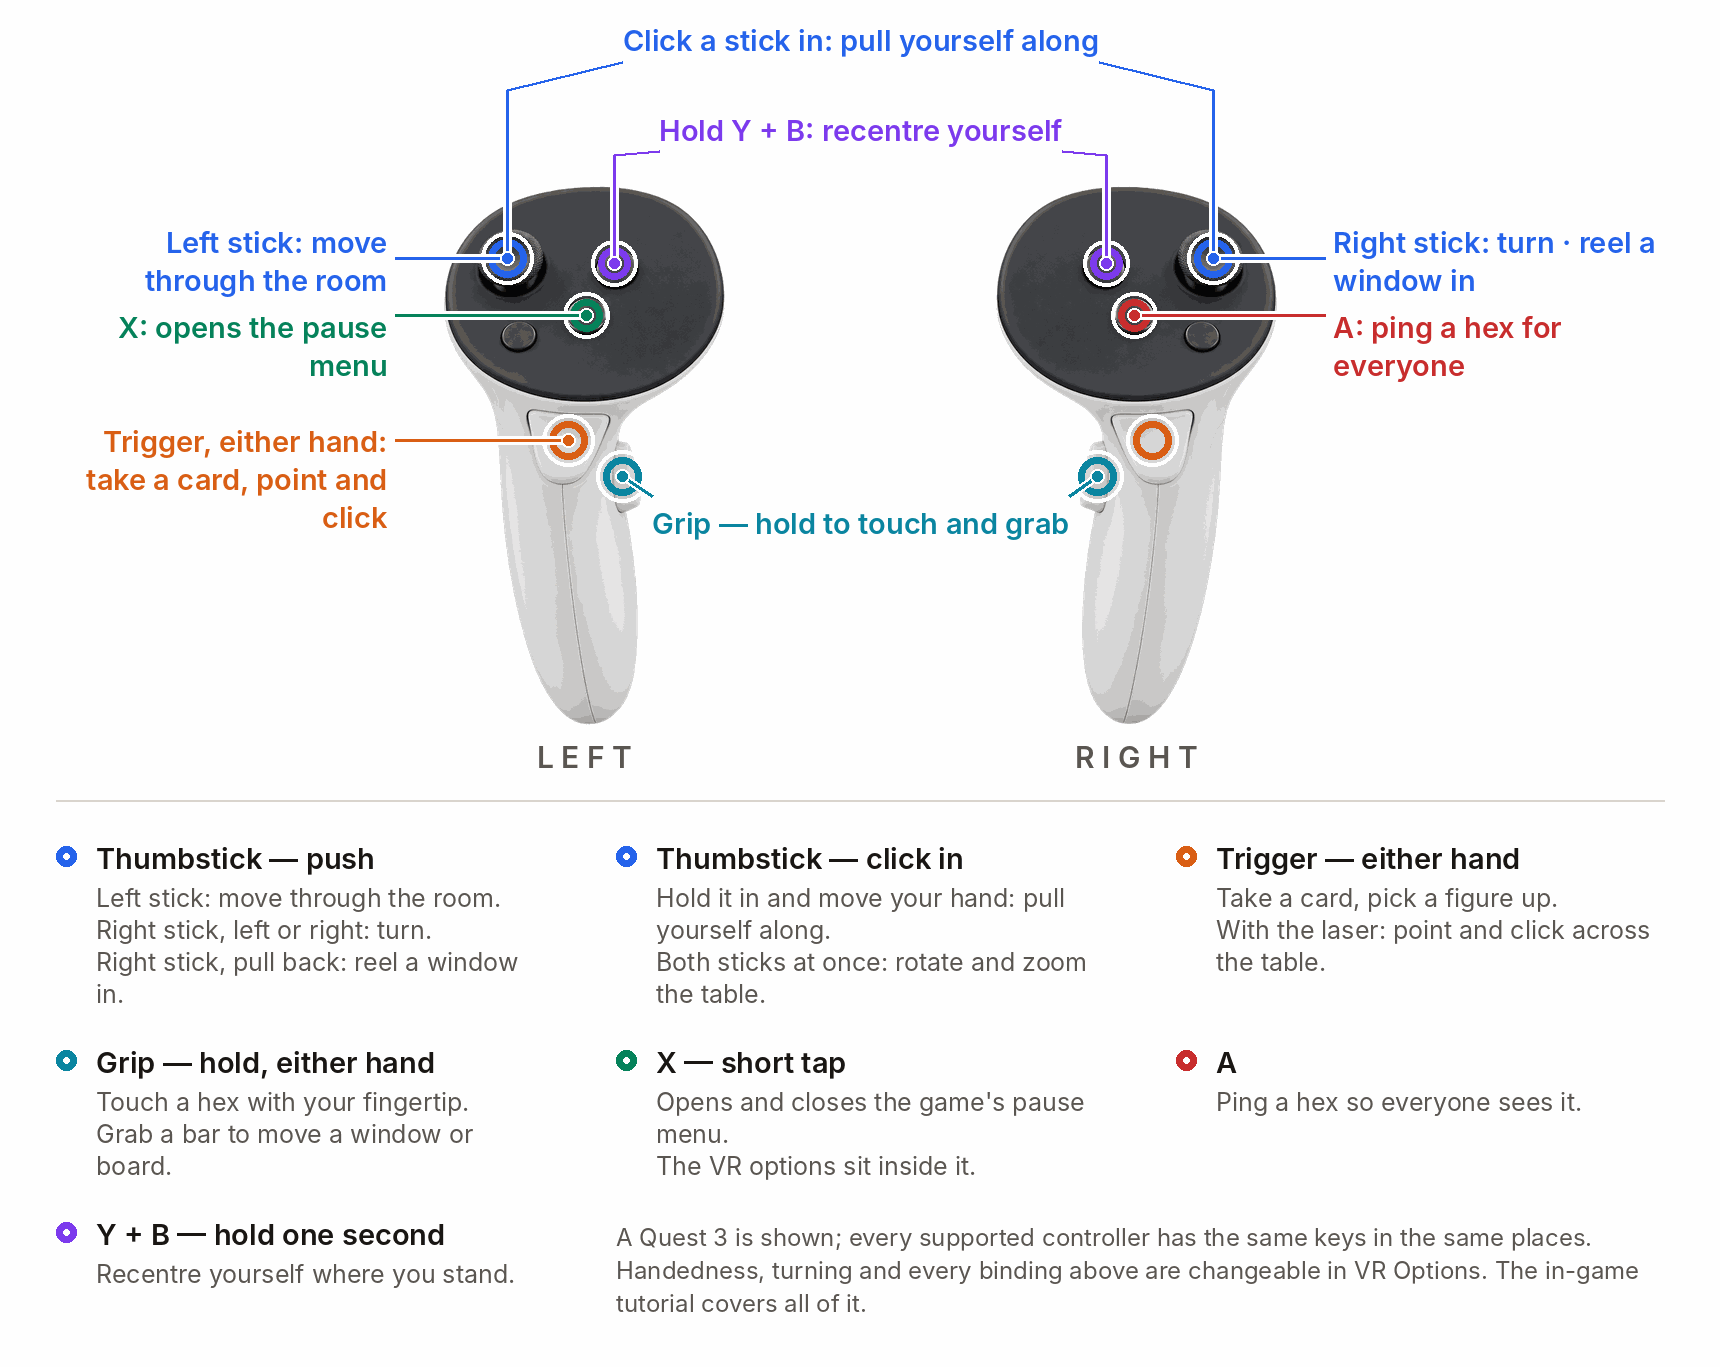
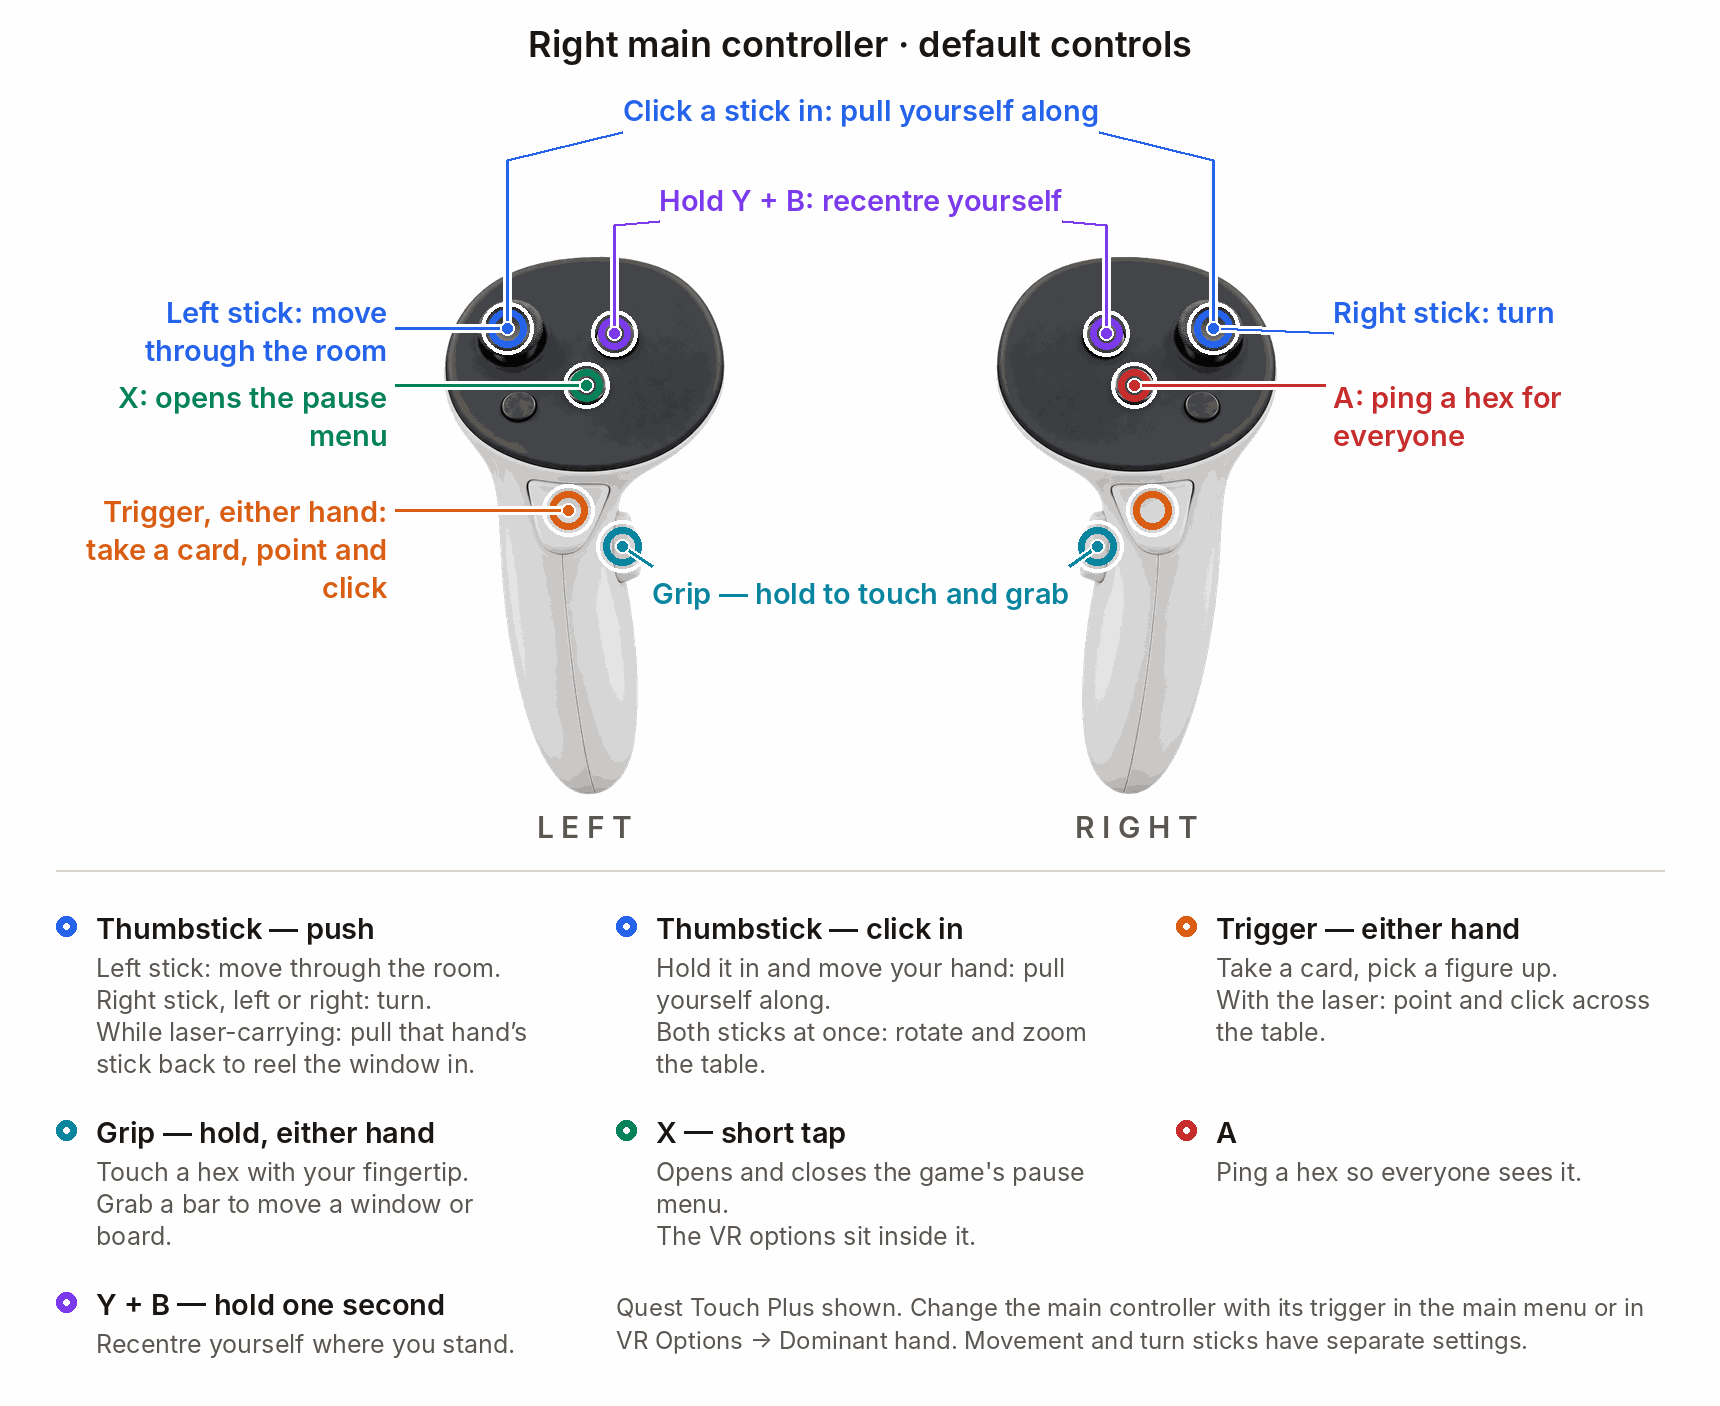
docs: show controller bindings for both main hands
Verify physical X/A roles against BoardPing and NonDominantHold; keep default flight/turn sticks fixed and describe reeling on the carrying hand. Generate and visually inspect all four EN/DE variants, with geometry preflight and byte-identical regeneration. Docs i18n check passes.

diff --git a/docs/img/build-controls-diagram.py b/docs/img/build-controls-diagram.py
@@ -1,5 +1,5 @@
 #!/usr/bin/env python3
-"""Build docs/img/controls-en.png and controls-de.png — the controller map in the playing guide.
+"""Build localized controller maps for both main-controller choices in the playing guide.
 
 WHY THIS IS A SCRIPT AND NOT A HAND-DRAWN IMAGE
 -----------------------------------------------
@@ -74,6 +74,7 @@ Usage:  python3 docs/img/build-controls-diagram.py
 """
 
 import os
+import copy
 from PIL import Image, ImageDraw, ImageFont
 
 HERE = os.path.dirname(os.path.abspath(__file__))
@@ -124,7 +125,7 @@ SCALE    = 0.76        # the artwork is drawn at its own resolution; this is how
 GAP      = 180         # the lane between the two controllers. It is this wide because the shared
                        # bindings are named IN it: at 28 px, which is all the picture needed when
                        # every word lived in the legend, the gutter held a leader and nothing else.
-TOP_BAND = 178         # room above the controllers for the two names that belong to both hands
+TOP_BAND = 248         # room for the handedness heading and the two shared-input callouts
 LX       = round((W - (ART_W * SCALE + GAP)) / 2.0)
 
 # Ring geometry, in canvas pixels. OUTER is the halo's outside edge — what a leader has to keep
@@ -178,13 +179,13 @@ CALLOUT_GEOM = {
                         leads=[[(285, -30), (285, 113)], [(695, -30), (695, 113)]]),
     "left_stick":  dict(colour=BLUE,   at=(-14,   60), align="r", maxw=326, rows=2,
                         leads=[[(144, 106)]]),
-    "options":     dict(colour=GREEN,  at=(-14,  173), align="r", maxw=326, rows=2,
+    "left_button": dict(colour=GREEN,  at=(-14,  173), align="r", maxw=326, rows=2,
                         leads=[[(248, 181)]]),
     "trigger":     dict(colour=ORANGE, at=(-14,  323), align="r", maxw=326, rows=3,
                         leads=[[(224, 345)]]),
     "right_stick": dict(colour=BLUE,   at=(994,   60), align="l", maxw=326, rows=2,
                         leads=[[(836, 106)]]),
-    "ping":        dict(colour=RED,    at=(994,  173), align="l", maxw=326, rows=2,
+    "right_button": dict(colour=RED,    at=(994,  173), align="l", maxw=326, rows=2,
                         leads=[[(732, 181)]]),
     "grip":        dict(colour=CYAN,   at=(MID,  430), align="c", maxw=420, rows=2,
                         leads=[[(296, 393)], [(684, 393)]]),
@@ -196,10 +197,10 @@ LEAD_TARGET = {
     "stick_click": [("L", "stick"), ("R", "stick")],
     "recentre":    [("L", "Y"), ("R", "B")],
     "left_stick":  [("L", "stick")],
-    "options":     [("L", "X")],
+    "left_button": [("L", "X")],
     "trigger":     [("L", "trigger")],
     "right_stick": [("R", "stick")],
-    "ping":        [("R", "A")],
+    "right_button": [("R", "A")],
     "grip":        [("L", "grip"), ("R", "grip")],
 }
 
@@ -227,24 +228,25 @@ LAYOUT = [
 LABELS = {
     "en": {
         "left": "LEFT", "right": "RIGHT",
-        # The callouts answer "what does this one do" in one breath. The legend below keeps the
+        "title": "Right main controller · default controls",
+        # The callouts name each action beside its physical input. The legend below keeps the
         # detail; nothing here is written twice, and where a name serves both hands it says so
         # either with two leaders or, for the trigger, in the words.
         "callouts": {
             "stick_click": "Click a stick in: pull yourself along",
             "recentre":    "Hold Y + B: recentre yourself",
             "left_stick":  "Left stick: move through the room",
-            "options":     "X: opens the pause menu",
+            "left_button": "X: opens the pause menu",
             "trigger":     "Trigger, either hand: take a card, point and click",
-            "right_stick": "Right stick: turn · reel a window in",
-            "ping":        "A: ping a hex for everyone",
+            "right_stick": "Right stick: turn",
+            "right_button": "A: ping a hex for everyone",
             "grip":        "Grip — hold to touch and grab",
         },
         "cells": [
             (BLUE, "Thumbstick — push", [
                 "Left stick: move through the room.",
                 "Right stick, left or right: turn.",
-                "Right stick, pull back: reel a window in.",
+                "While laser-carrying: pull that hand’s stick back to reel the window in.",
             ]),
             (BLUE, "Thumbstick — click in", [
                 "Hold it in and move your hand: pull yourself along.",
@@ -261,7 +263,7 @@ LABELS = {
             # WorldUI/Options/OptionsToggle.cs:11-15 with WorldUI/Grab/NonDominantHold.cs:82-84:
             # a short tap of the NON-DOMINANT lower face button opens the game's own PAUSE screen,
             # and the mod's options are one button inside it. It is X only under the shipped
-            # right-handed default, which is what the note below covers.
+            # right-main default; the left-main variant below swaps the physical labels.
             (GREEN, "X — short tap", [
                 "Opens and closes the game's pause menu.",
                 "The VR options sit inside it.",
@@ -273,12 +275,12 @@ LABELS = {
                 "Recentre yourself where you stand.",
             ]),
         ],
-        "note": "A Quest 3 is shown; every supported controller has the same keys in the same "
-                "places. Handedness, turning and every binding above are changeable in VR "
-                "Options. The in-game tutorial covers all of it.",
+        "note": "Quest Touch Plus shown. Change the main controller with its trigger in the main "
+                "menu or in VR Options → Dominant hand. Movement and turn sticks have separate settings.",
     },
     "de": {
         "left": "LINKS", "right": "RECHTS",
+        "title": "Hauptcontroller rechts · Standardbelegung",
         # German is 15-30 % longer than the English beside it, and these sit in gaps between drawn
         # parts rather than in a column that can grow. Where a faithful translation does not fit,
         # the WORDING is shortened — never the type, which is already at the floor for a picture
@@ -287,17 +289,17 @@ LABELS = {
             "stick_click": "Stick eindrücken: dich heranziehen",
             "recentre":    "Y + B halten: neu zentrieren",
             "left_stick":  "Linker Stick: durch den Raum bewegen",
-            "options":     "X: öffnet das Pause-Menü",
+            "left_button": "X: öffnet das Pause-Menü",
             "trigger":     "Trigger, beide Hände: Karte nehmen, zeigen und klicken",
-            "right_stick": "Rechter Stick: drehen, Fenster heranholen",
-            "ping":        "A: ein Feld für alle markieren",
+            "right_stick": "Rechter Stick: drehen",
+            "right_button": "A: ein Feld für alle markieren",
             "grip":        "Grip — halten: berühren und greifen",
         },
         "cells": [
             (BLUE, "Thumbstick — drücken", [
                 "Linker Stick: durch den Raum bewegen.",
                 "Rechter Stick, links oder rechts: drehen.",
-                "Rechter Stick, zurückziehen: Fenster heranholen.",
+                "Beim Laser-Tragen: Stick dieser Hand zurückziehen, um das Fenster heranzuholen.",
             ]),
             (BLUE, "Thumbstick — eindrücken", [
                 "Gedrückt halten und die Hand bewegen: dich heranziehen.",
@@ -322,11 +324,36 @@ LABELS = {
                 "Dich neu zentrieren, wo du gerade stehst.",
             ]),
         ],
-        "note": "Abgebildet ist eine Quest 3; jeder unterstützte Controller hat dieselben Tasten "
-                "an denselben Stellen. Händigkeit, Drehen und jede Belegung oben lassen sich "
-                "in den VR-Optionen ändern. Das Tutorial im Spiel erklärt alles davon.",
+        "note": "Abgebildet: Quest Touch Plus. Hauptcontroller wechseln: dessen Trigger im Hauptmenü "
+                "drücken oder VR-Optionen → Dominante Hand. Bewegung und Drehung haben eigene Stick-Einstellungen.",
     },
 }
+
+
+# Main-hand selection only swaps the lower face-button roles. FlightHand defaults to Left and
+# TurnHand to Right (Defaults.Rig.cs), independently of PrimaryHand. LaserCarryReel owns the
+# stick of PanelGrabHandle.ReelHand, so either physical stick can reel a carried window.
+# BoardPing.Tick reads VRHands.Primary.PrimaryDown; NonDominantHold.Tick observes the other
+# hand's PrimaryButton for OptionsToggle. Keep artwork/anchors physical and swap actions/colours.
+for language in ("en", "de"):
+    variant = copy.deepcopy(LABELS[language])
+    variant["title"] = ("Left main controller · default controls" if language == "en" else
+                        "Hauptcontroller links · Standardbelegung")
+    variant["callouts"]["left_button"] = ("X: ping a hex for everyone" if language == "en" else
+                                            "X: ein Feld für alle markieren")
+    variant["callouts"]["right_button"] = ("A: opens the pause menu" if language == "en" else
+                                             "A: öffnet das Pause-Menü")
+    colour, title, lines = variant["cells"][4]
+    variant["cells"][4] = (colour, title.replace("X", "A", 1), lines)
+    colour, title, lines = variant["cells"][5]
+    variant["cells"][5] = (colour, "X", lines)
+    LABELS["left-" + language] = variant
+
+
+def action_colour(variant, key, default):
+    if variant.startswith("left-"):
+        return {"left_button": RED, "right_button": GREEN, "X": RED, "A": GREEN}.get(key, default)
+    return default
 
 
 CALL_SIZE = 29     # the callout type. 29 px is 14.5 px at the 860 the guides show this at — the
@@ -640,6 +667,11 @@ def build(lang):
     d = ImageDraw.Draw(im)
 
     txt = LABELS[lang]
+    title_font = font("Inter-SemiBold.otf", 36)
+    title_width = d.textlength(txt["title"], font=title_font)
+    if title_width > W - 2 * MARGIN:
+        raise SystemExit("Controller heading exceeds canvas width: " + lang)
+    d.text(((W - title_width) / 2, 22), txt["title"], font=title_font, fill=INK)
 
     f_call = font("Inter-SemiBold.otf", CALL_SIZE)
     f_hand = font("Inter-SemiBold.otf", HAND_SIZE)
@@ -652,7 +684,7 @@ def build(lang):
         for key in table:
             colour = {"stick": BLUE, "trigger": ORANGE, "grip": CYAN,
                       "X": GREEN, "A": RED, "Y": PURPLE, "B": PURPLE}[key]
-            ring(d, anchor_px(hand, key), colour, r=RING_R[key])
+            ring(d, anchor_px(hand, key), action_colour(lang, key, colour), r=RING_R[key])
 
     # --- the callouts ---------------------------------------------------------------------
     # Drawn over the rings, so a leader crossing the plate stays readable and a name never
@@ -661,7 +693,7 @@ def build(lang):
     for key, g in CALLOUT_GEOM.items():
         lines, widths, box, polys = block(d, lang, key, f_call)
         for poly in polys:
-            leader(d, g["colour"], poly)
+            leader(d, action_colour(lang, key, g["colour"]), poly)
         for i, ln in enumerate(lines):
             if g["align"] == "c":
                 lx0 = (box[0] + box[2]) / 2.0 - widths[i] / 2.0
@@ -669,7 +701,7 @@ def build(lang):
                 lx0 = box[2] - widths[i]
             else:
                 lx0 = box[0]
-            d.text((lx0, box[1] + i * CALL_LH), ln, font=f_call, fill=g["colour"],
+            d.text((lx0, box[1] + i * CALL_LH), ln, font=f_call, fill=action_colour(lang, key, g["colour"]),
                    stroke_width=5, stroke_fill=PAPER)
 
     # --- LEFT / RIGHT under each controller -----------------------------------------------
@@ -728,5 +760,5 @@ RULE_Y   = HAND_Y + 62
 
 if __name__ == "__main__":
     check_geometry(RULE_Y)
-    for lang in ("en", "de"):
+    for lang in LABELS:
         build(lang)

diff --git a/docs/img/README.md b/docs/img/README.md
@@ -471,14 +471,26 @@ scripts rather than files is the same in all three cases: **the artwork is made 
 drawn at build time.**
 
 ```
-python3 docs/img/build-controls-diagram.py     -> controls-en.png, controls-de.png
+python3 docs/img/build-controls-diagram.py     -> controls-{en,de}.png, controls-left-{en,de}.png
 python3 docs/img/build-board-diagram.py        -> board-en.png,    board-de.png
 python3 docs/img/build-install-tree.py         -> install-tree-en.png, install-tree-de.png
 ```
 
 All three need Pillow and the Inter fonts at `/usr/share/fonts/opentype/inter`.
 
-### `controls-{en,de}.png` -- the button map in the playing guide
+### `controls-{en,de}.png` and `controls-left-{en,de}.png` -- the controller maps
+
+The default map explicitly names the right main controller; the `controls-left-*` map shows
+left-main-controller bindings. Both use the same untouched source artwork and physical anchors.
+`BoardPing.Tick` reads the main hand's lower face button (A on right, X on left), while
+`NonDominantHold.Tick` supplies the other hand's lower button to `OptionsToggle` for pause.
+The default movement/turn sticks stay physically left/right (`Defaults.Rig.cs`); handedness
+alone does not swap them. Window reeling uses the carrying hand's stick (`PanelGrabHandle.ReelHand`
+and `LaserCarryReel.OwnsStick`), correcting the previous diagram's right-stick-only claim.
+Main-controller switching is documented in the picture: press that controller's trigger in the
+main menu (`FlatScreen.TickHandednessSwitch`) or use VR Options → Dominant hand.
+The generator checks callout geometry in all four variants before writing any output. Inspect all
+four output images after generation; left-main mode swaps action colours with the X/A labels.
 
 The single highest-value picture in the documentation set: the controls are what a new player needs
 first, and prose is the worst possible carrier for a button map. It replaces two markdown tables and
@@ -508,7 +520,7 @@ halves of a lookup. **Do not "fix" them back out.**
 `Rig/WorldGrab.cs`, `Rig/SnapTurn.cs`, `Rig/Flight.cs`, `Board/BoardPing.cs`,
 `WorldUI/Options/OptionsToggle.cs`, `WorldUI/Grab/NonDominantHold.cs`, `Defaults/Defaults.Rig.cs` --
 because the docs were stale in three places when this was drawn, and a fourth was found when the
-callouts went on: **X opens the game's PAUSE screen, not an "options menu"**
+callouts went on: **The off-hand lower button opens the game's PAUSE screen, not an "options menu"**
 (`OptionsToggle.cs:11-15`; the mod's options are one button inside it). If a binding moves, re-read
 the source.
 
